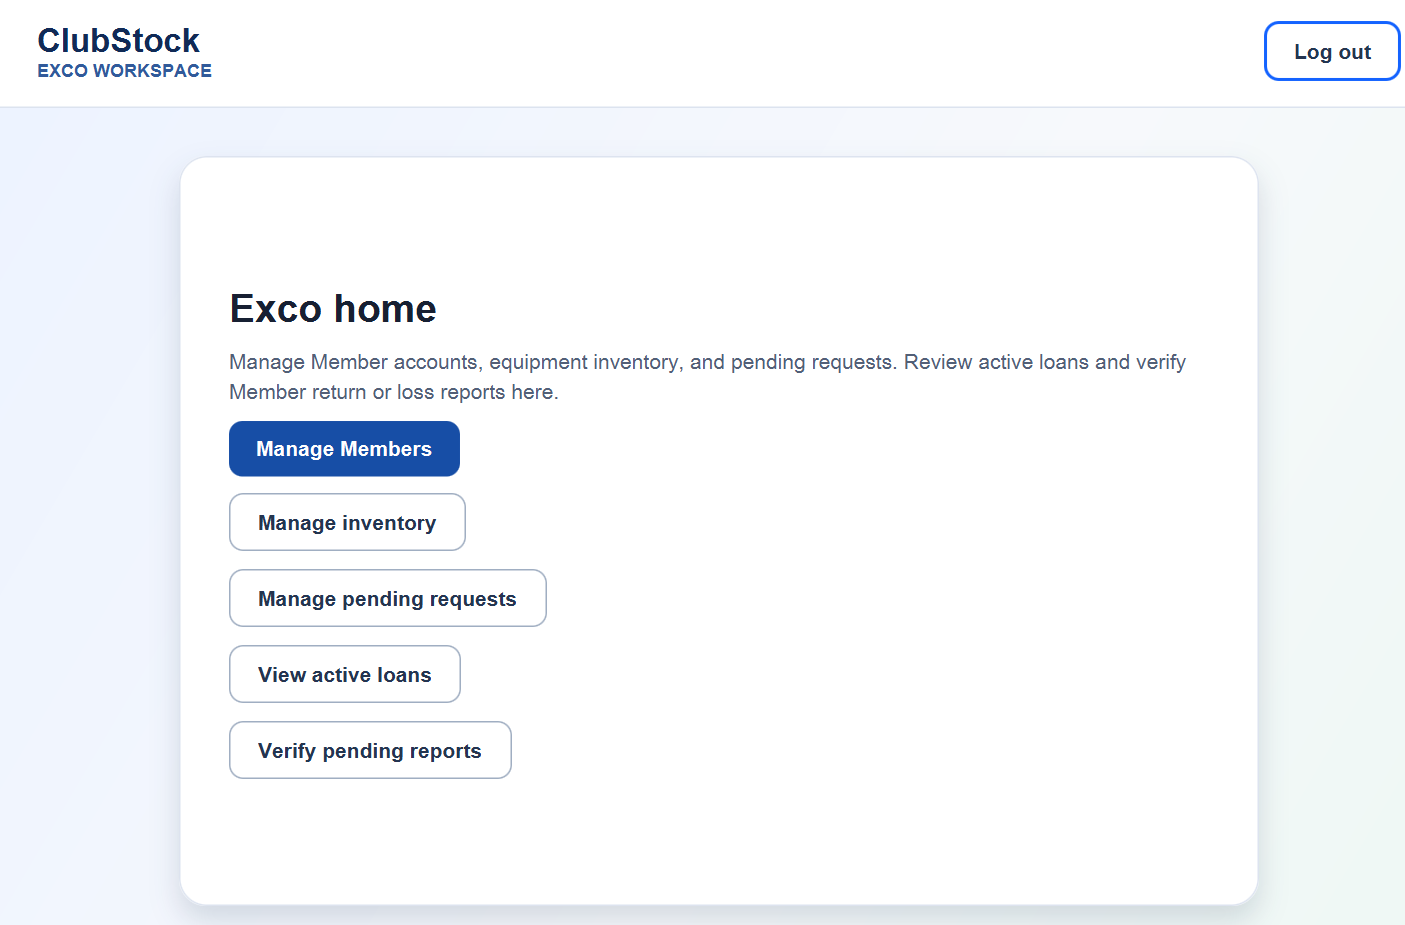
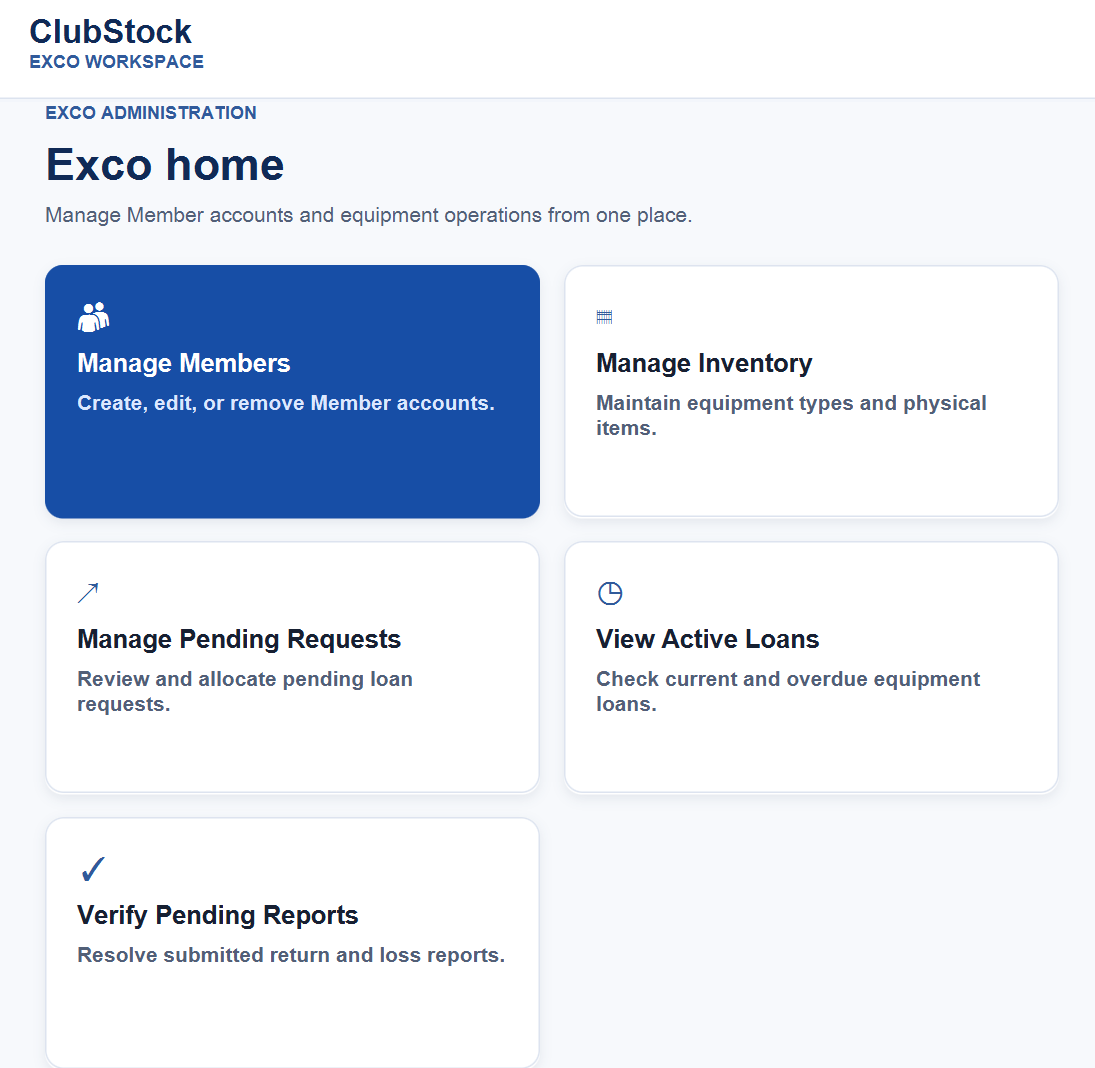
feat: redesign Exco home dashboard

diff --git a/src/main/resources/clubstock/ui/clubstock.css b/src/main/resources/clubstock/ui/clubstock.css
@@ -170,6 +170,82 @@
     -fx-background-color: transparent;
 }
 
+.dashboard-content {
+    -fx-background-color: #f7f9fc;
+}
+
+.dashboard-header {
+    -fx-padding: 4px 2px 0 2px;
+}
+
+.dashboard-title {
+    -fx-font-size: 30px;
+    -fx-font-weight: 800;
+    -fx-text-fill: #102a56;
+}
+
+.dashboard-grid {
+    -fx-padding: 2px;
+}
+
+.dashboard-card {
+    -fx-alignment: top-left;
+    -fx-background-color: #ffffff;
+    -fx-background-radius: 12px;
+    -fx-border-color: #dce3ef;
+    -fx-border-radius: 12px;
+    -fx-border-width: 1px;
+    -fx-content-display: graphic-only;
+    -fx-cursor: hand;
+    -fx-effect: dropshadow(gaussian, rgba(32, 52, 84, 0.08), 12, 0.08, 0, 3);
+    -fx-padding: 20px;
+}
+
+.dashboard-card:hover {
+    -fx-background-color: #f8fbff;
+    -fx-border-color: #7fa7e8;
+    -fx-effect: dropshadow(gaussian, rgba(32, 52, 84, 0.14), 16, 0.12, 0, 5);
+}
+
+.dashboard-card:focused {
+    -fx-border-color: #1463ff;
+    -fx-border-width: 2px;
+}
+
+.dashboard-card-primary {
+    -fx-background-color: #174ea6;
+    -fx-border-color: #174ea6;
+}
+
+.dashboard-card-primary:hover {
+    -fx-background-color: #123f88;
+    -fx-border-color: #123f88;
+}
+
+.dashboard-card-icon {
+    -fx-font-size: 22px;
+    -fx-text-fill: #315a9a;
+}
+
+.dashboard-card-title {
+    -fx-font-size: 17px;
+    -fx-font-weight: 800;
+    -fx-text-fill: #172033;
+}
+
+.dashboard-card-description {
+    -fx-text-fill: #526077;
+}
+
+.dashboard-card-primary .dashboard-card-icon,
+.dashboard-card-primary .dashboard-card-title {
+    -fx-text-fill: #ffffff;
+}
+
+.dashboard-card-primary .dashboard-card-description {
+    -fx-text-fill: #dce9ff;
+}
+
 .content-scroll {
     -fx-background-color: transparent;
     -fx-background: transparent;

diff --git a/src/test/java/clubstock/ui/FxmlResourceTest.java b/src/test/java/clubstock/ui/FxmlResourceTest.java
@@ -124,6 +124,19 @@ class FxmlResourceTest {
     }
 
     @Test
+    void excoHomeRouteRetainsAllWorkflowActions() throws IOException {
+        String excoHome = routeText(Route.EXCO_HOME);
+
+        assertTrue(excoHome.contains("onAction=\"#manageMembers\""));
+        assertTrue(excoHome.contains("onAction=\"#manageInventory\""));
+        assertTrue(excoHome.contains("onAction=\"#manageRequests\""));
+        assertTrue(excoHome.contains("onAction=\"#manageLoans\""));
+        assertTrue(excoHome.contains("onAction=\"#verifyReports\""));
+        assertTrue(excoHome.contains("styleClass=\"dashboard-grid\""));
+        assertTrue(excoHome.contains("styleClass=\"dashboard-card"));
+    }
+
+    @Test
     void memberRequestRoutesContainTheirMemberSafeActions() throws IOException {
         String requestEntry = routeText(Route.MEMBER_REQUEST_ENTRY);
         assertTrue(requestEntry.contains("fx:id=\"equipmentTypeComboBox\""));
